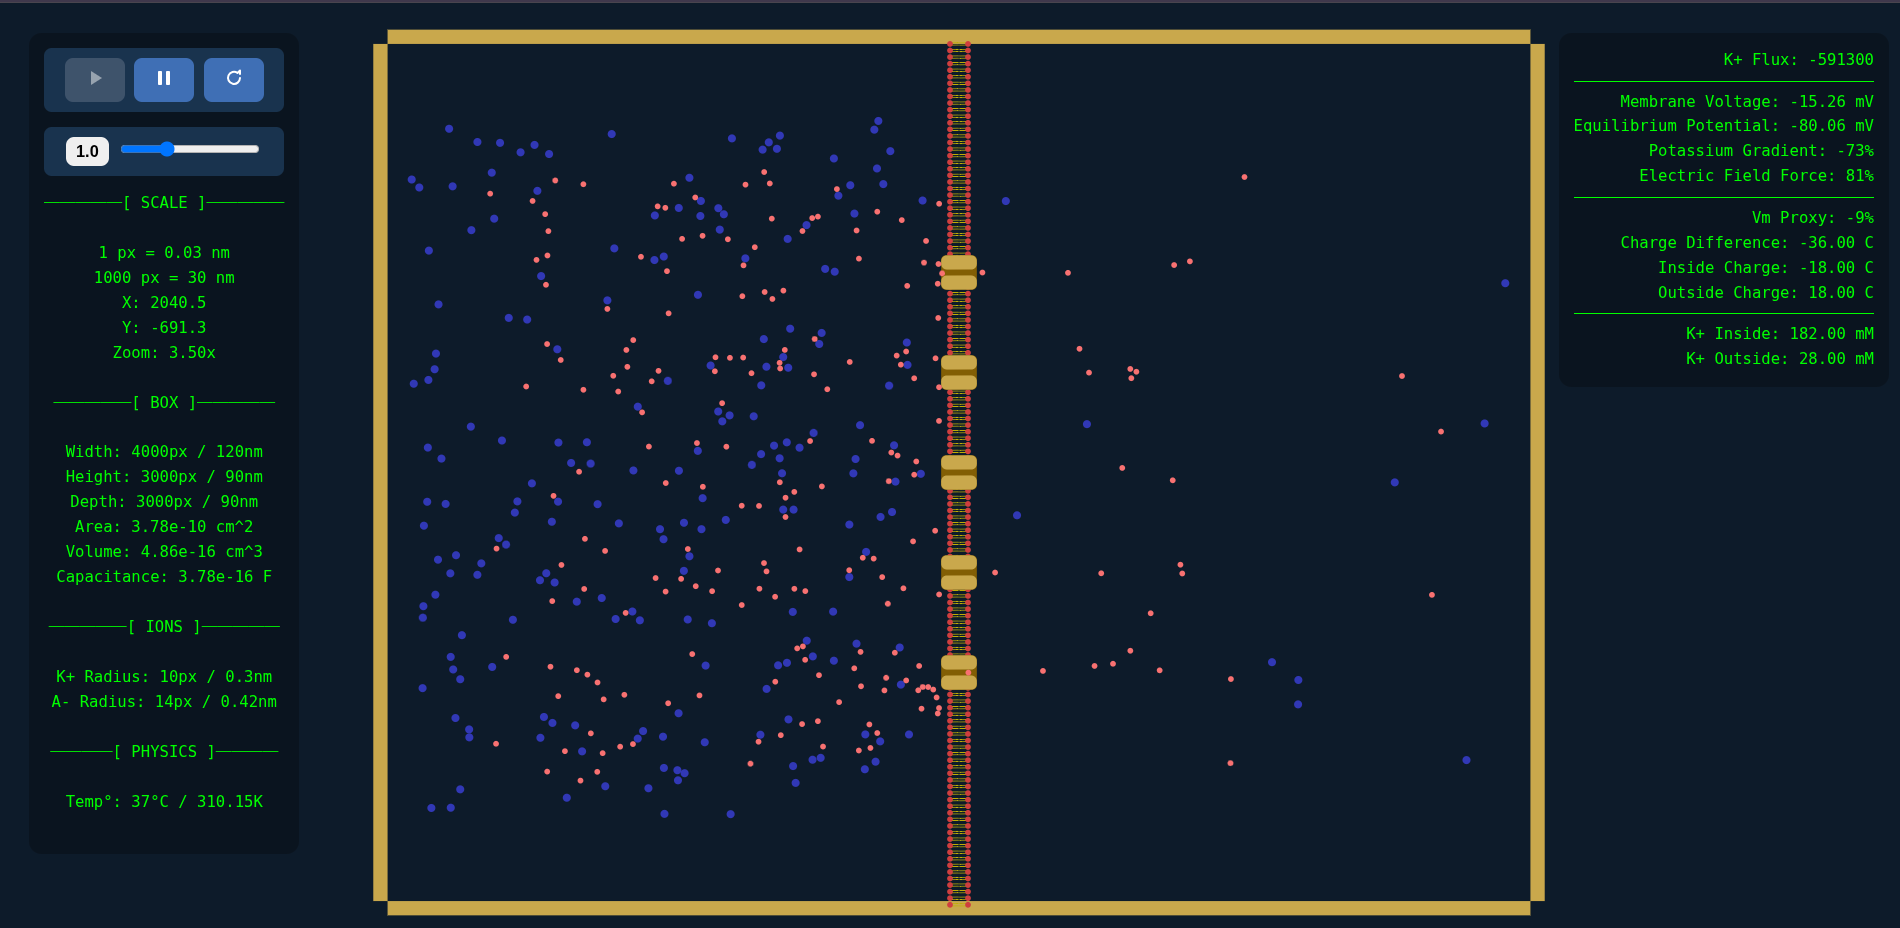
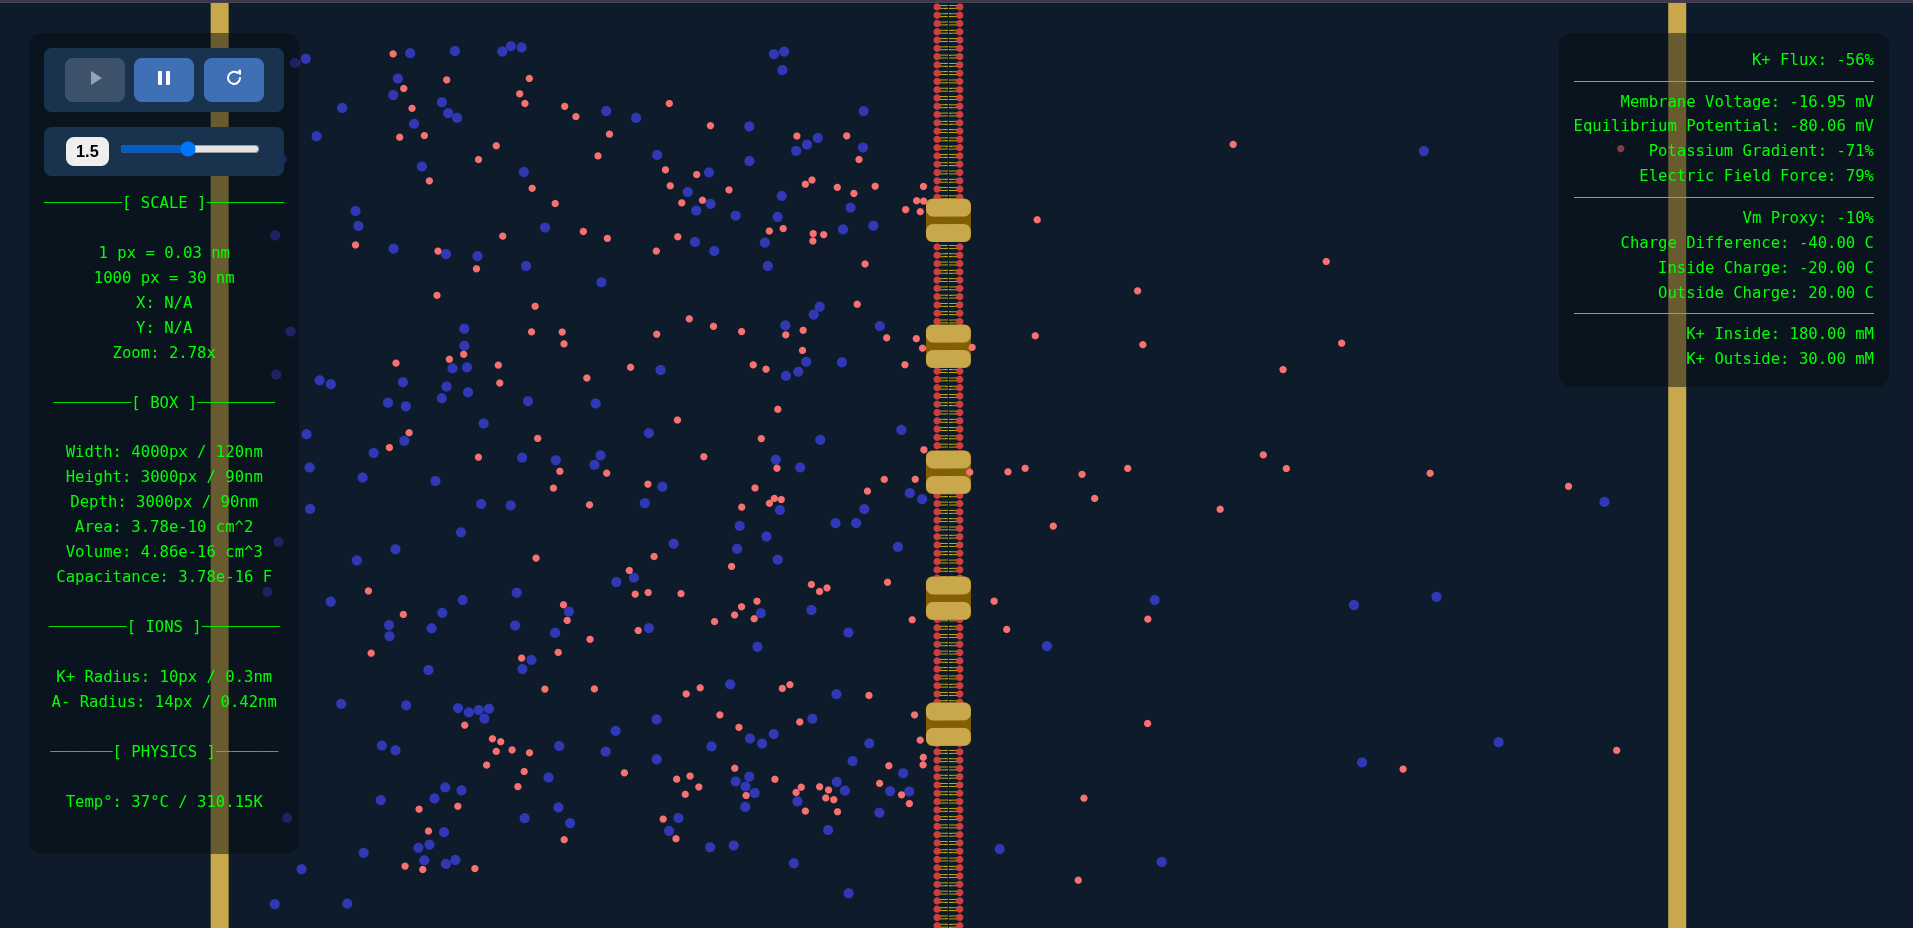
A few corrections in force management

diff --git a/src/ui/controls.js b/src/ui/controls.js
@@ -119,7 +119,7 @@ setInterval(() => {
     const pointerX = pointerPosition ? pointerPosition.x.toFixed(1) : 'N/A';
     const pointerY = pointerPosition ? pointerPosition.y.toFixed(1) : 'N/A';
 
-    const FLUX = Math.round(100 * (STATS.kGradient * STATS.normalizedEfieldForce)) || 0;
+    const FLUX = (100 * (STATS.kGradient * STATS.normalizedEfieldForce)).toFixed(2) || 0;
 
     addRowToPanel(`K+ Flux: ${FLUX}%`, MEMBRANE_STATE_PANEL);
     addRowToPanel("RULER", MEMBRANE_STATE_PANEL);

diff --git a/README.MD b/README.MD
@@ -5,15 +5,6 @@ Neuro-Science Simulations is a 2D top-view experimental box that visualizes ion 
 The world is split into two compartments: left = “inside,” right = “outside,” separated by a phospholipid bilayer and configurable leak channels.
 
 ![img-2](./static/assets/img-2.png)
-*Zoomed-in view*
-
-<hr>
-
-
-
-![img-1](./static/assets/img-1.png)
-*Zoomed-out view*
-
 
 ![img-3](./static/assets/img-3.png)
 *After Ion redistribution (Flux:0, VM: -80mv)*
